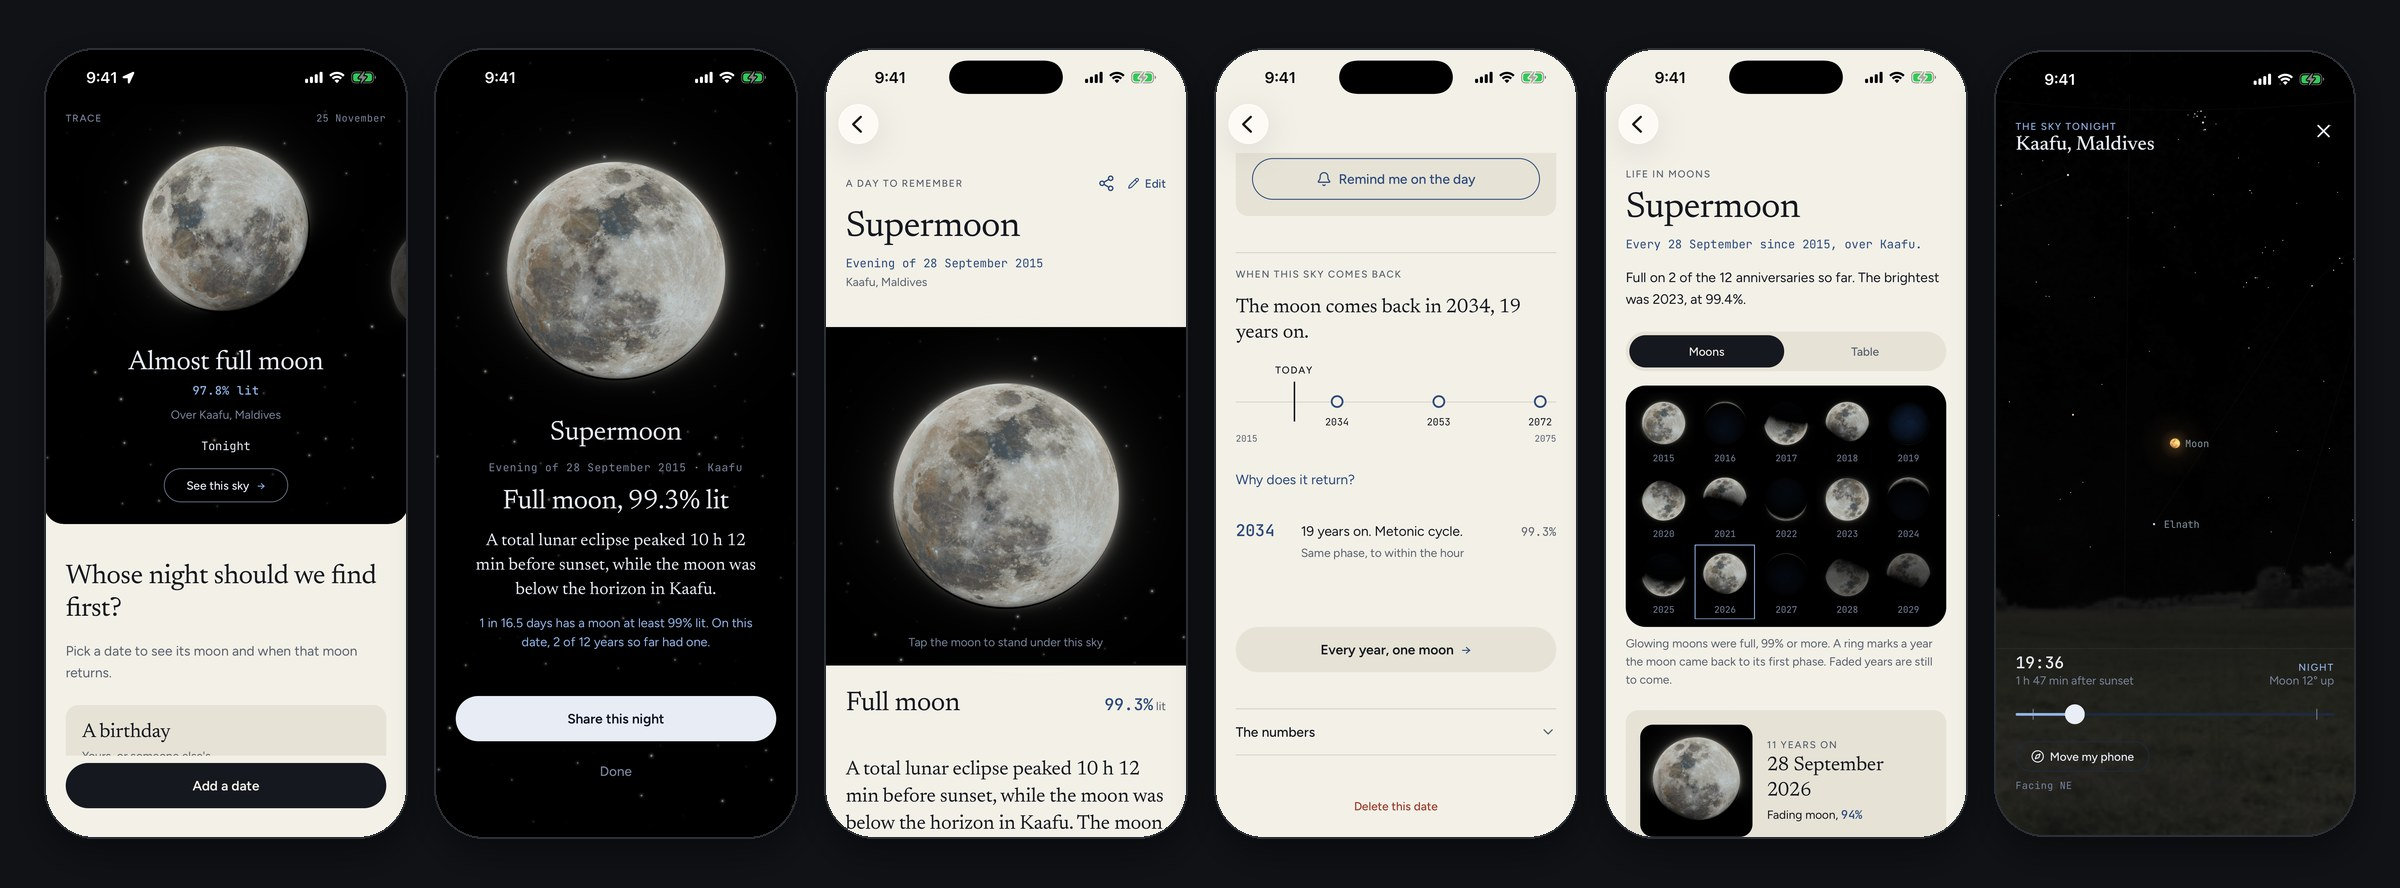
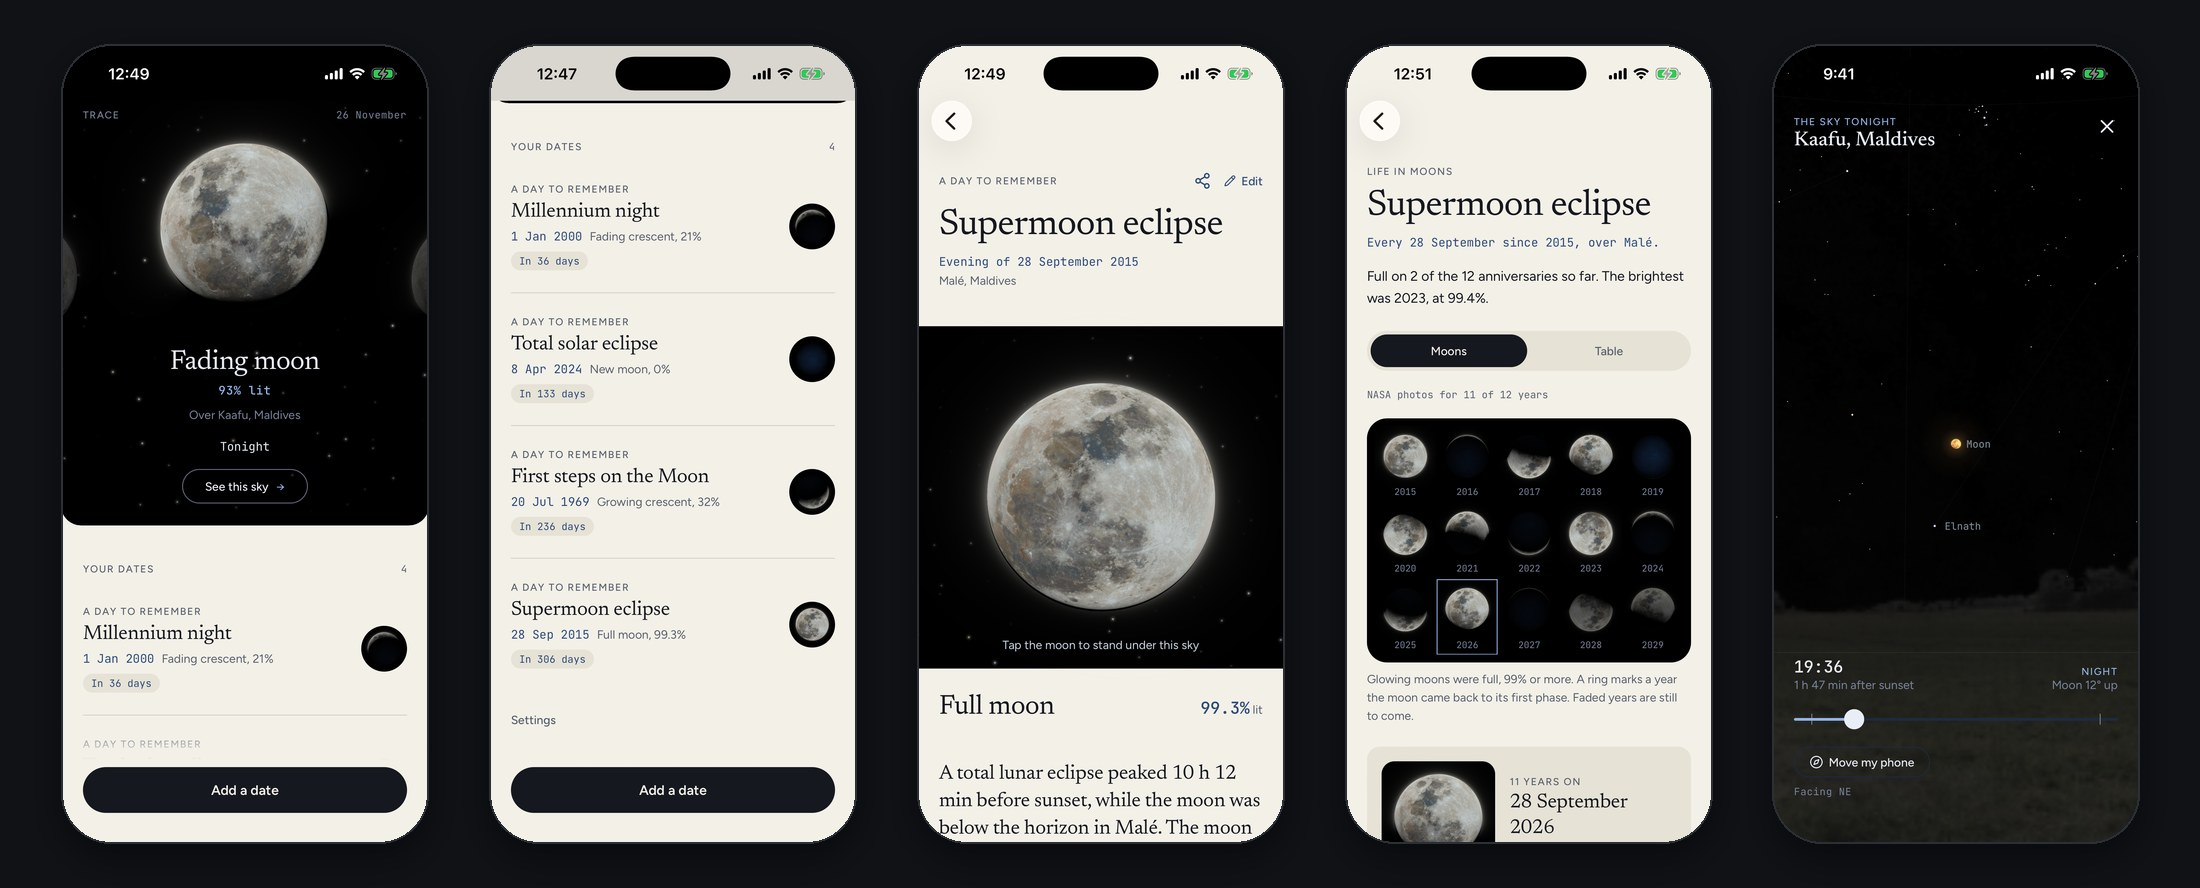
DOCS: Refresh the collage

diff --git a/README.md b/README.md
@@ -10,7 +10,7 @@
   <a href="LICENSE"><img src="https://img.shields.io/github/license/ukasha167/TRACE" alt="MIT license" /></a>
 </p>
 
-<p align="center"><img src="docs/media/collage.jpg" alt="Six TRACE screens: tonight's moon on Home, the reveal of the 28 September 2015 supermoon, its record page, the year the moon comes back, every anniversary's moon in one grid, and the sky view at the horizon" /></p>
+<p align="center"><img src="docs/media/collage.jpg" alt="Five TRACE screens: tonight's moon on Home, the list of saved dates, the record page of the 28 September 2015 supermoon eclipse, every anniversary's moon in one grid, and the sky view at the horizon" /></p>
 
 <p align="center">
   <img src="https://img.shields.io/badge/React_Native-0.86-61DAFB?logo=react&logoColor=black" alt="React Native 0.86" />
